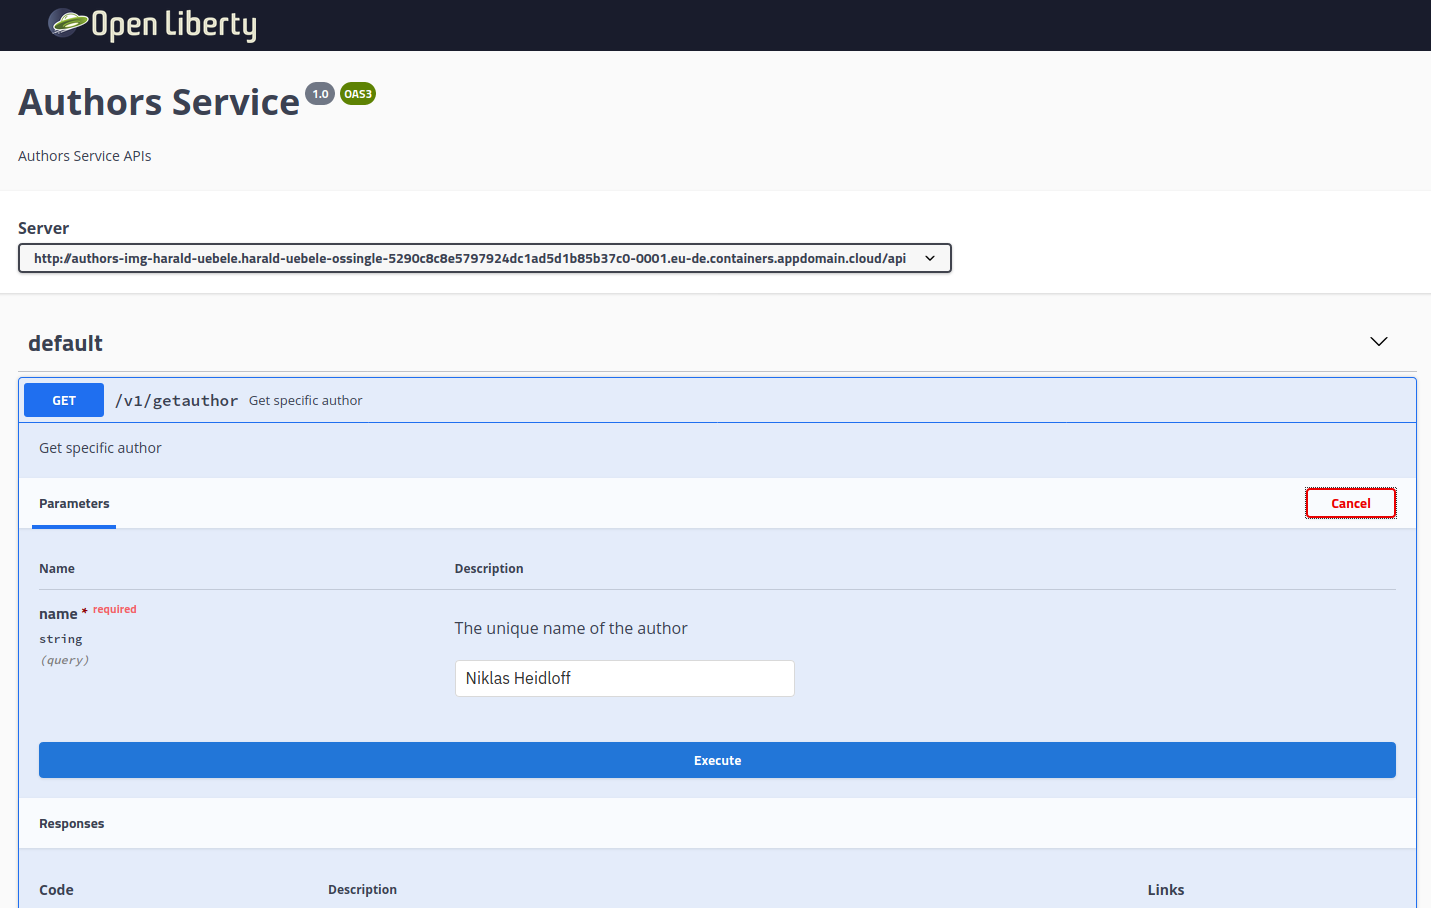
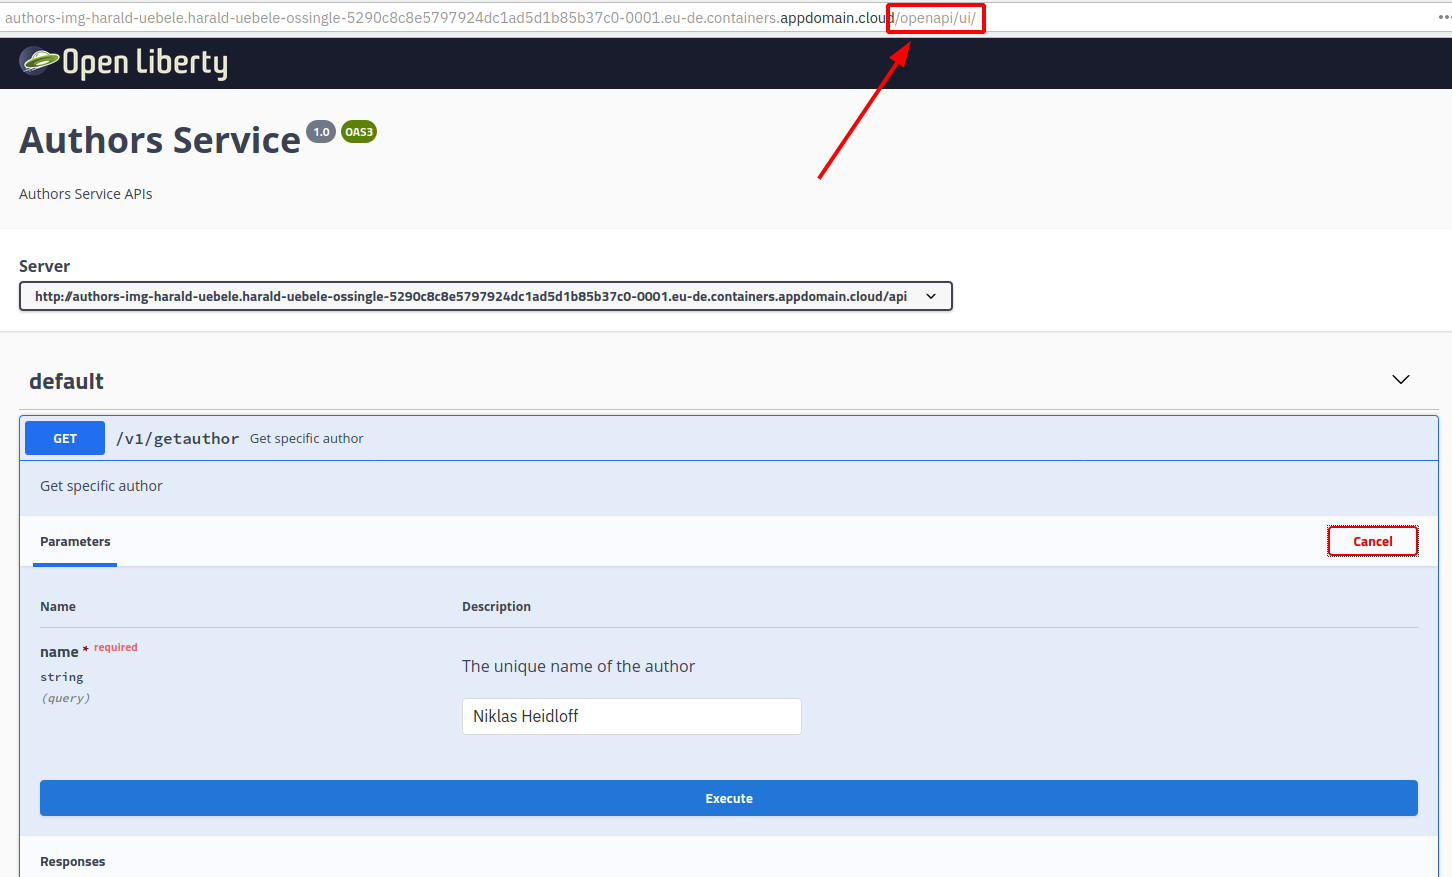
corrections

diff --git a/7-source-to-image.md b/7-source-to-image.md
@@ -14,12 +14,14 @@ In order to use S2I, builder images are needed. These builder images create the 
 
 OpenShift provides several builder images out of the box, for example for Node.js and Wildfly applications. In order to support other runtimes, for example Open Liberty, custom builder images can be built and deployed. Since this workshop uses Open Liberty, we will use a [builder image for Open Liberty](https://github.com/nheidloff/s2i-open-liberty) which needs to be deployed before the actual Open Liberty microservice can be deployed.
 
-In order to deploy the image builder 'nheidloff/s2i-open-liberty' the OpenShift Web Console is used.
+To deploy the image builder 'nheidloff/s2i-open-liberty' the OpenShift Web Console is used.
 
 
 ### Step 1
 
-In order to open the registry console, choose the default project, expand registry-console and click on the URL.
+First we need to add the Open Liberty builder image to the OpenShift internal image registry. For reasons unknown, Red Hat decided to place the Image Registry in the default namespace in version 3 of OpenShift. (This has changed in version 4.)
+
+To open the registry console, choose the default project, expand registry-console and click on the URL.
 
 <kbd><img src="images/lab-7-step-2.png" /></kbd>
 
@@ -37,7 +39,7 @@ It will take a moment to pull the image. After this the image will show up in th
 
 <kbd><img src="images/lab-7-step-4.png" /></kbd>
 
-The other images were created during the previous labs.
+The other images you see on this page were created during the previous labs.
 
 ## Deployment of the Microservice
 
@@ -63,7 +65,8 @@ After you've run these commands, the file 'authors.war' will appear in the 'targ
 
 Next we create a new OpenShift application (our microservice) in your project.
 
-We define in the first parameter of the 'oc new-app' command that we want to use the Open Liberty builder image (s2i-open-liberty:latest) to produce the production image with Open Liberty and our microservice (server.xml and authors.war which are located in the local repository '/.' which is the part after '~')
+The first parameter of the `oc new-build` command may look strange: 
+the first part (s2i-open-liberty:latest) specifies the Open Liberty builder image, then comes a seperator ('~'), then the specification of the local repository '/.' which contains the server.xml and authors.war needed for the build.
 
 ```
 $ cd ${ROOT_FOLDER}/deploying-to-openshift
@@ -81,7 +84,7 @@ If you look in the OpenShift Web Console now, you will see that the build failed
 
 <kbd><img src="images/lab-7-step-7-1.png" /></kbd>
 
-Before the microservice can be deployed with the image builder, the code (or more precisely 'authors.jar' and 'server.xml') need to be uploaded to OpenShift. This is done via 'oc start-build'.
+Before the microservice can be deployed with the image builder, the code (or more precisely 'authors.war' and 'server.xml') need to be uploaded to OpenShift. This is done via 'oc start-build'.
 
 In the 'oc start-build' command we refer to the code of our Java microservice in the current directory.
 
@@ -89,7 +92,7 @@ In the 'oc start-build' command we refer to the code of our Java microservice in
 $ oc start-build --from-dir . authors-s2i
 ```
 
-After a couple of seconds you can see the successful build in the OpenShift Web Console.
+After a moment you can see the successful build in the OpenShift Web Console.
 
 <kbd><img src="images/lab-7-step-8.png" /></kbd>
 
@@ -108,4 +111,4 @@ To test the deployment, append '/openapi/ui' to the URL in the output of 'oc get
 
 ---
 
-:star:This concludes this workshop, congratulations!
+**This concludes this workshop, congratulations!**

diff --git a/5-existing-image.md b/5-existing-image.md
@@ -6,7 +6,7 @@
 
 This is a quick lab that demonstrates how to deploy a public image from Docker Hub onto OpenShift. As starting point an image of the 'authors' microservice from this workshop has already been loaded on Docker Hub.
 
-Note: Not all images from Docker Hub can be installed and used on OpenShift. For example, OpenShift doesn't allow to deploy images which run as 'root'. See the OpenShift [documentation](https://docs.openshift.com/container-platform/3.3/creating_images/guidelines.html) for details.
+Note: Not all images from Docker Hub can be used on OpenShift. For example, OpenShift does run containers as 'root' which means that a lot of images from Docker Hub won't start. See the OpenShift [documentation](https://docs.openshift.com/container-platform/3.3/creating_images/guidelines.html) for details.
 
 ## Step 1
 
@@ -42,25 +42,25 @@ Navigate back to the overview page.
 
 <kbd><img src="images/lab-5-step-5.png" /></kbd>
 
-## Step 7
+## Step 6
 
 Open 'authors-img' and click 'Create Route'.
 
 <kbd><img src="images/lab-5-step-6.png" /></kbd>
 
-## Step 8
+## Step 7
 
-Scroll down and click the 'Create' button (not shown in the screenshot).
+Accept the defaults, scroll down and click the 'Create' button (not shown in the screenshot).
 
 <kbd><img src="images/lab-5-step-7.png" /></kbd>
 
-## Step 9
+## Step 8
 
-In a browser open the URL of 'authors-img' and append '/openapi/ui'.
+Click on the URL of 'authors-img', this will open the default Open Liberty Welcome page, and append '/openapi/ui' to the URL.
 
 <kbd><img src="images/lab-5-step-8.png" /></kbd>
 
-## Step 10
+## Step 9
 
 This opens the Open API user interface to try the REST API.
 

diff --git a/6-github.md b/6-github.md
@@ -22,7 +22,7 @@ $ oc project <yourfirstname-yourlastname>
 
 ### Step 2
 
-Create a new application and refer to a subdirectory in the GitHub repo.
+Create a new application and refer to the GitHub repo of this workshop and to a subdirectory (deploying-to-openshift) within the repo:
 
 ```
 $ oc new-app https://github.com/Harald-U/workshop-openshift-on-ibm-cloud --context-dir=deploying-to-openshift --name=authors-git
@@ -32,11 +32,13 @@ As result you'll get this output.
 
 <kbd><img src="images/lab-6-step-2-1.png" /></kbd>
 
+Notice how OpenShift creates a number of Kubernetes and OpenShift objects without you having to create any yaml files. Port 3000 is read from the Dockerfile.
+
 A build will be triggered and run on OpenShift.
 
 <kbd><img src="images/lab-6-step-2-2.png" /></kbd>
 
-After the build the pod and the service will be deployed. Note that the healthchecks defined in the yaml file are missing, since the yaml files are not used. Instead OpenShift uses intelligent defaults for as many settings as possible. 
+After successful build, the pod and the service will be deployed. Note that the healthchecks defined in the yaml file are missing, since the yaml files are not used. Instead OpenShift uses intelligent defaults for as many settings as possible. 
 
 <kbd><img src="images/lab-6-step-2-3.png" /></kbd>
 
@@ -57,4 +59,4 @@ This is the deployed application with the route.
 
 ---
 
-:star: __Continue with [Lab 7 - Source to Image Deployments](./7-source-to-image.md)__
+__Continue with [Lab 7 - Source to Image Deployments](./7-source-to-image.md)__

diff --git a/4-openshift.md b/4-openshift.md
@@ -187,7 +187,8 @@ spec:
    $ cd ${ROOT_FOLDER}/deploying-to-openshift/deployment
    ```
 
-2. Make a copy of 'template.deployment.yaml', name it 'deployment.yaml' file and adjust the "pull" name for the "image" location parameter to the name of your project. In the IBM Cloud Shell you can use `nano` as a simple text editor:
+2. Make a copy of 'template.deployment.yaml', name it 'deployment.yaml' file and adjust the "pull" name for the "image" location parameter to the name of your project. You saw the "pull" name at the end of step 4 in part 1 of this workshop.
+In the IBM Cloud Shell you can use `nano` as a simple text editor:
 
     ```
     $ cp template.deployment.yaml deployment.yaml
